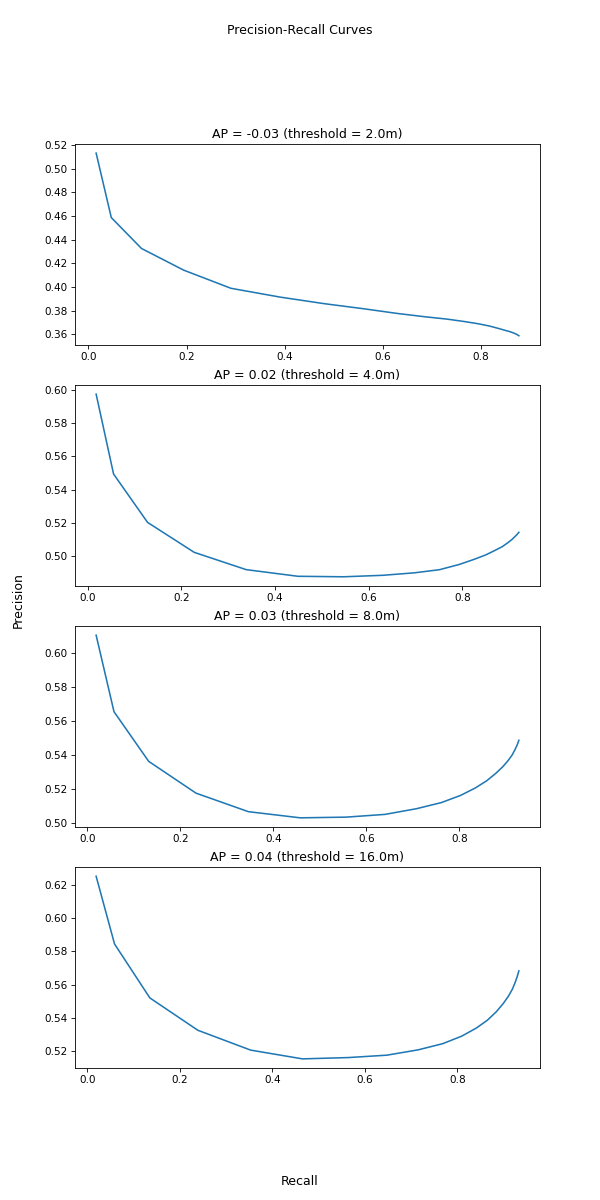
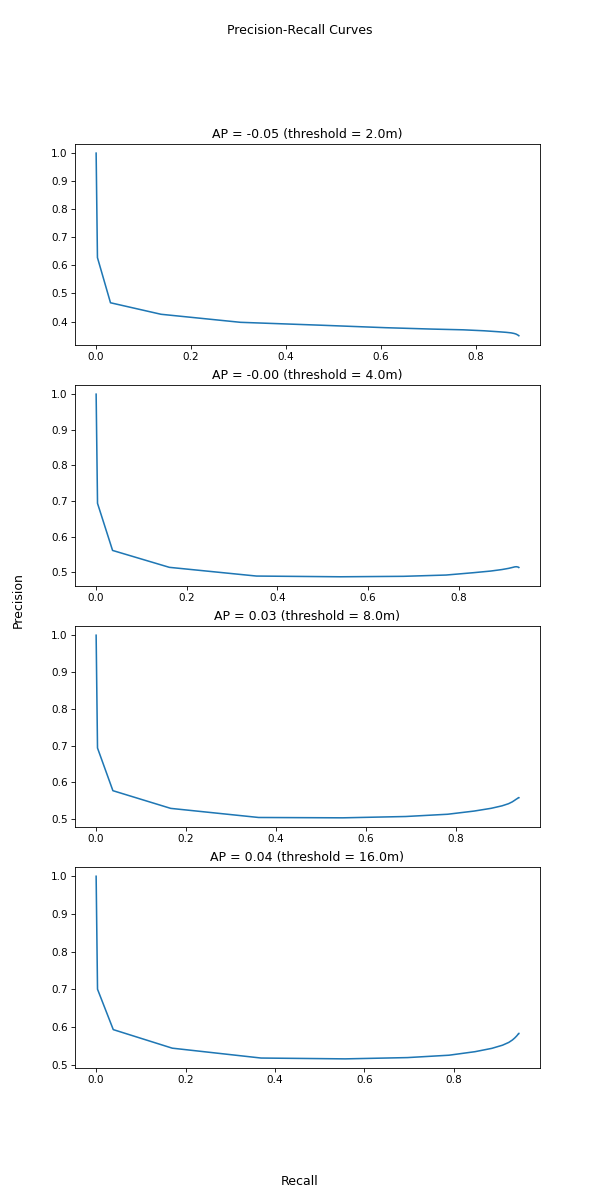
ii

diff --git a/detection/metrics/average_precision.py b/detection/metrics/average_precision.py
@@ -73,7 +73,7 @@ def compute_precision_recall_curve(
         detection_scores = torch.cat((detection_scores, scores))
     max_score = torch.max(detection_scores)
     min_score = torch.min(detection_scores)
-    for s_i in torch.linspace(min_score.item(), max_score.item(), 20):
+    for s_i in torch.linspace(max_score.item(), min_score.item(), 15):
         TP_lst = []
         labs_record_lst = []
         TP = 0 
